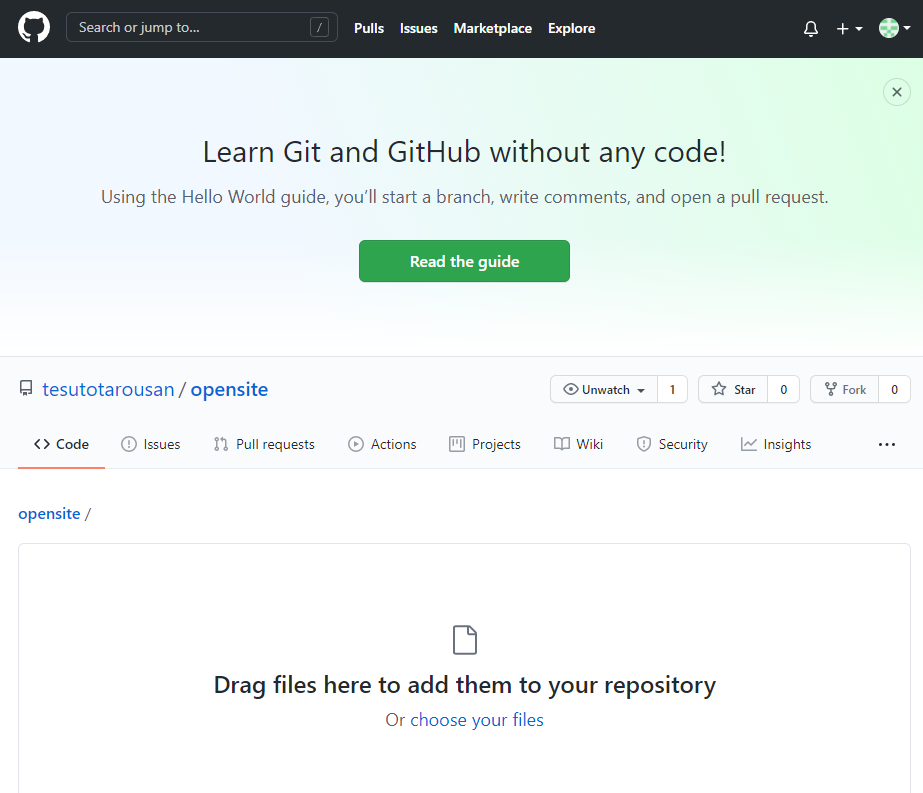
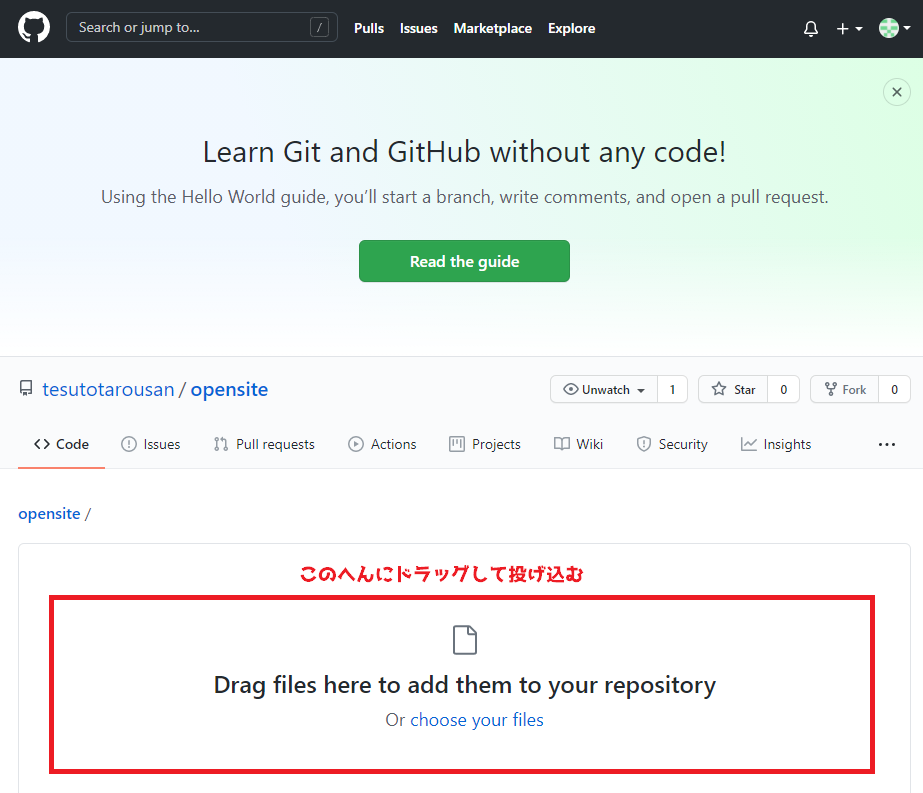
Add files via upload

diff --git a/index.html b/index.html
@@ -39,7 +39,8 @@
       <h1>手順１</h1>
       <h2>GitHubのアカウントを作成する</h2>
       <p>まずはGitHubを使うためのアカウントを作成しましょう。</p>
-      こちらからGitHubのアカウント新規作成画面を開いてください→<a href="https://github.com/join">GitHubアカウント新規作成</a>
+      <p>※すでにGitHubアカウントを所有している場合は次の手順まで飛ばしてOK⇒<button>スキップ！</button></p>
+      <p>こちらからGitHubのアカウント新規作成画面を開いてください→<a href="https://github.com/join">GitHubアカウント新規作成</a></p>
       <img src="img/githubpages_1.png" alt="">
       <img src="img/githubpages_2.png" alt="">
       <p>Username、Email address、Passwordを入力し、ロボットじゃないですチェックをクリアしたら下にある「Create account」を押してアカウントを作成しましょう。</p>
@@ -52,22 +53,20 @@
       <img src="img/githubpages_4.png" alt="">
       <p>上のような画面が開いたら確認完了です。</p>
       <img src="img/githubpages_5.png" alt="">
-      <p>すでにGitHubアカウントを所有している場合は次の手順まで飛ばしてOK。</p>
-      <button>スキップ！</button>
     </div>
     <div class="box">
       <h1>手順２</h1>
       <h2>GitHubのリポジトリを作成する</h2>
       <p>GitHubアカウントの用意ができたので、まずはリポジトリを作成しましょう。</p>
       <p>画面真ん中左くらいにある「Create a repository」を押して新規作成です。</p>
-      <img src="img/githubpages_5.png" alt="">
+      <img src="img/githubpages_5_1.png" alt="">
       <p>下の画像のようなリポジトリの新規作成画面が開くと思います。</p>
       <p>Repository nameだけ入力すればOKです。</p>
       <p>Repository nameもUser nameと同じく後で公開するページのURLに含まれるため、適度な恥ずかしさの名前にしましょう。</p>
       <p>真ん中らへんにあるPublic/Privateのラジオボタンは初期表示のままPublicを選択します。</p>
       <p>Privateにしてしまうとページが公開できなくなるので注意。</p>
       <p>Repository nameの入力が終わったら下にある「Create repository」を押します。</p>
-      <img src="img/githubpages_6.png" alt="">
+      <img src="img/githubpages_6_1.png" alt="">
       <p>下の画像のような画面が表示されたらリポジトリの作成成功です。</p>
       <p>この画面が作成したリポジトリの管理画面になります。</p>
       <img src="img/githubpages_7.png" alt="">
@@ -79,13 +78,45 @@
       <p>管理画面の真ん中の少ししたにある「uploading an existring file.」というリンクを押してファイルをアップロードする画面に行きます。</p>
       <p>文字が小さいので良く探しましょう。</p>
       <p>知覚に表示されている「Try out Github Discussions!」のところは無視しても良いし「Got it!」を押して消しても良いです。</p>
-      <img src="img/githubpages_7.png" alt="">
+      <img src="img/githubpages_7_1.png" alt="">
       <p>アップロードしたいファイルを選択してドラッグし、画面の真ん中にでている「Drag files here to add them to your repository」と書いてある所にファイルを投げ込みます。</p>
       <p>圧縮などはしなくてOK。サイトの中身を丸ごと投入します。</p>
       <img class="lt" src="img/githubpages_9.png" alt="">
       <img src="img/githubpages_8.png" alt="">
       <p>上手に放り込めたら「Commit changes」を押してアップロードを実行しましょう。</p>
+      <p>※間違えて投げ込んでしまったファイルなどは、ファイル名の右側に表示される「×」のボタンで削除できます。</p>
+      <img src="img/githubpages_10.png" alt="">
       <p>上のような画面が表示されたらアップロード成功です。</p>
+      <p>※アップロードしたファイルによって微妙に違うのでだいたいこんな画面。</p>
+    </div>
+    <div class="box">
+      <h1>手順４</h1>
+      <h2>GitHub pagesを設定してアップロードしたファイルを公開する</h2>
+      <p>ファイルのアップロードができたら、いよいよページを公開する設定を行いましょう。</p>
+      <p>リポジトリの管理画面の右側にあるSettingsを押して設定画面に移行します。</p>
+      <img src="img/githubpages_11.png" alt="">
+      <p>設定画面を下にスクロールしていき、GitHub Pagesを探します。</p>
+      <p>※けっこう下の方です。</p>
+      <img src="img/githubpages_12.png" alt="">
+      <img src="img/githubpages_13.png" alt="">
+      <p>GitHub pagesを見つけたら、その中のSourceを編集します。</p>
+      <p>Noneとなっているプルダウンのボタンを押して、mainを選択してください。</p>
+      <img src="img/githubpages_13_1.png" alt="">
+      <img src="img/githubpages_13_2.png" alt="">
+      <p>Soureceを編集するとSaveボタンが表示されるので、押します。</p>
+      <img src="img/githubpages_13_3.png" alt="">
+      <p>設定が保存され、設定画面が更新されます。</p>
+      <p>もう一回下までスクロールしてGitHub pagesの設定が変更されているのを確認してください。</p>
+      <img src="img/githubpages_14.png" alt="">
+      <img src="img/githubpages_15.png" alt="">
+      <p>設定が更新されていたら準備OK！</p>
+      <p>「Your site is ready to be published at ~~~」と表示されていると思います。</p>
+      <p>「~~~」の所があなたのページのURLになっています。</p>
+      <img src="img/githubpages_15_1.png" alt="">
+      <p>開いてみましょう！</p>
+    </div>
+    <div class="last">
+      <p>終わり！</p>
     </div>
   </main>
   

diff --git a/css/style.css b/css/style.css
@@ -30,6 +30,9 @@ main img {
 main img.lt {
   width: 50%;
 }
+main .last p {
+  font-size: 10rem;
+}
 /* main */
 
 
